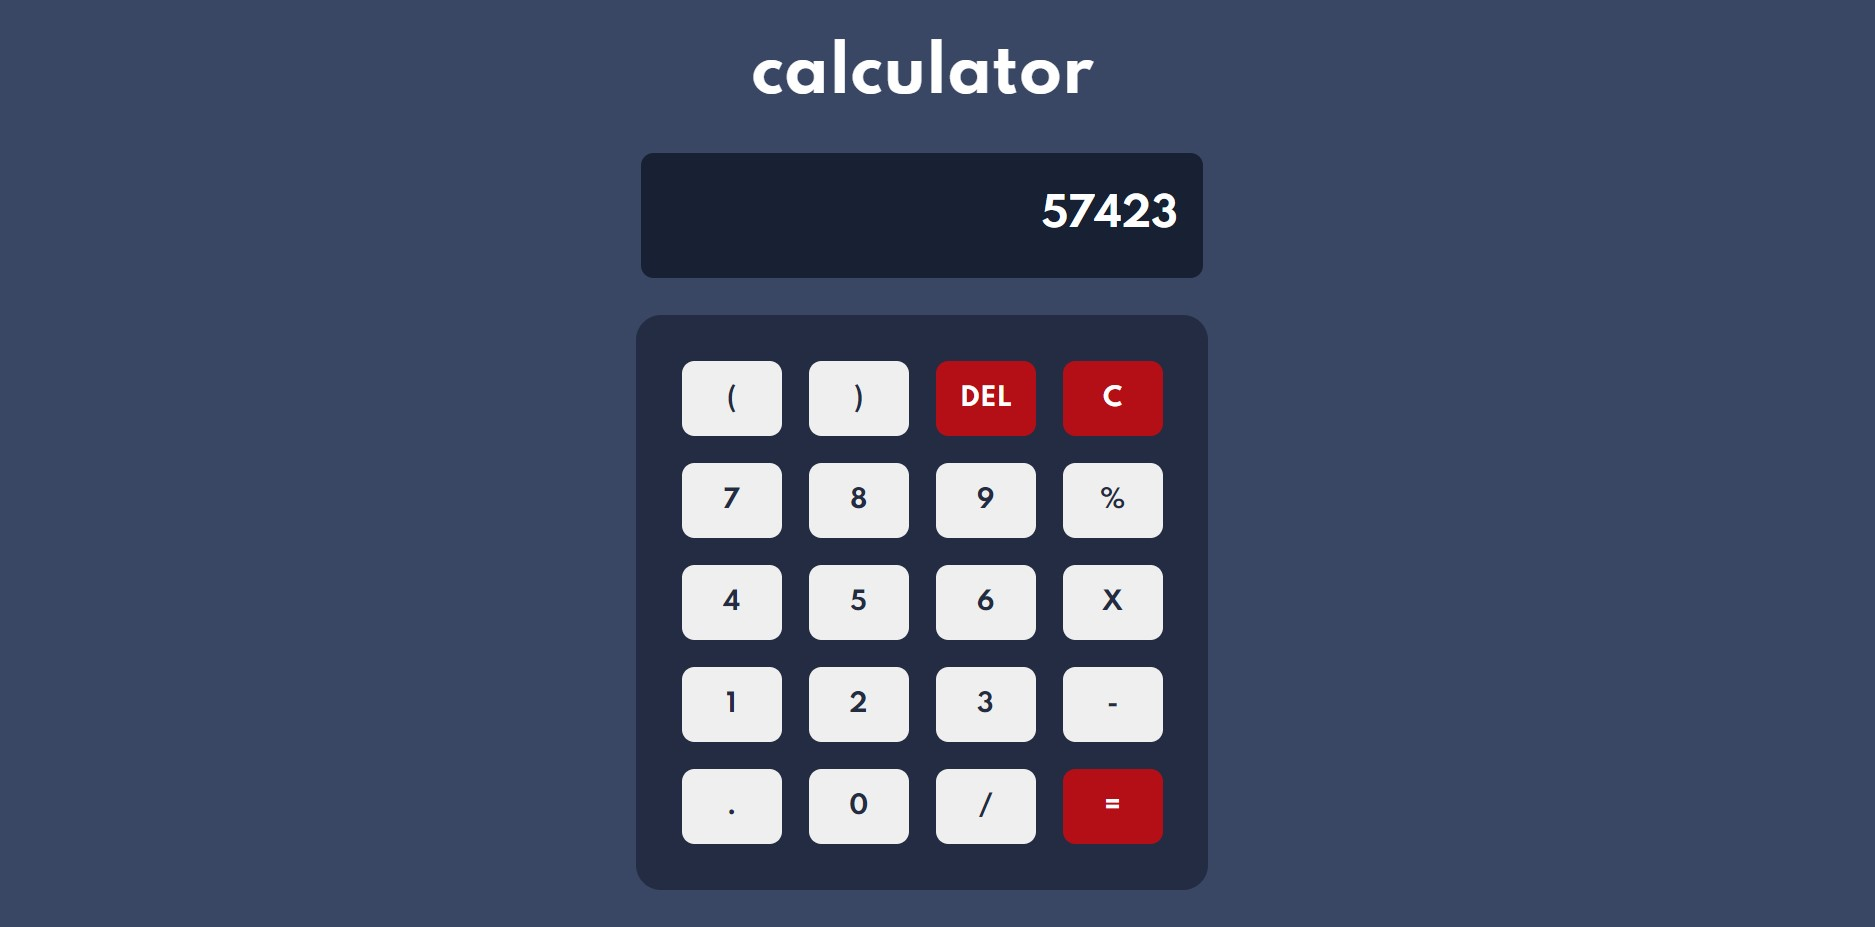
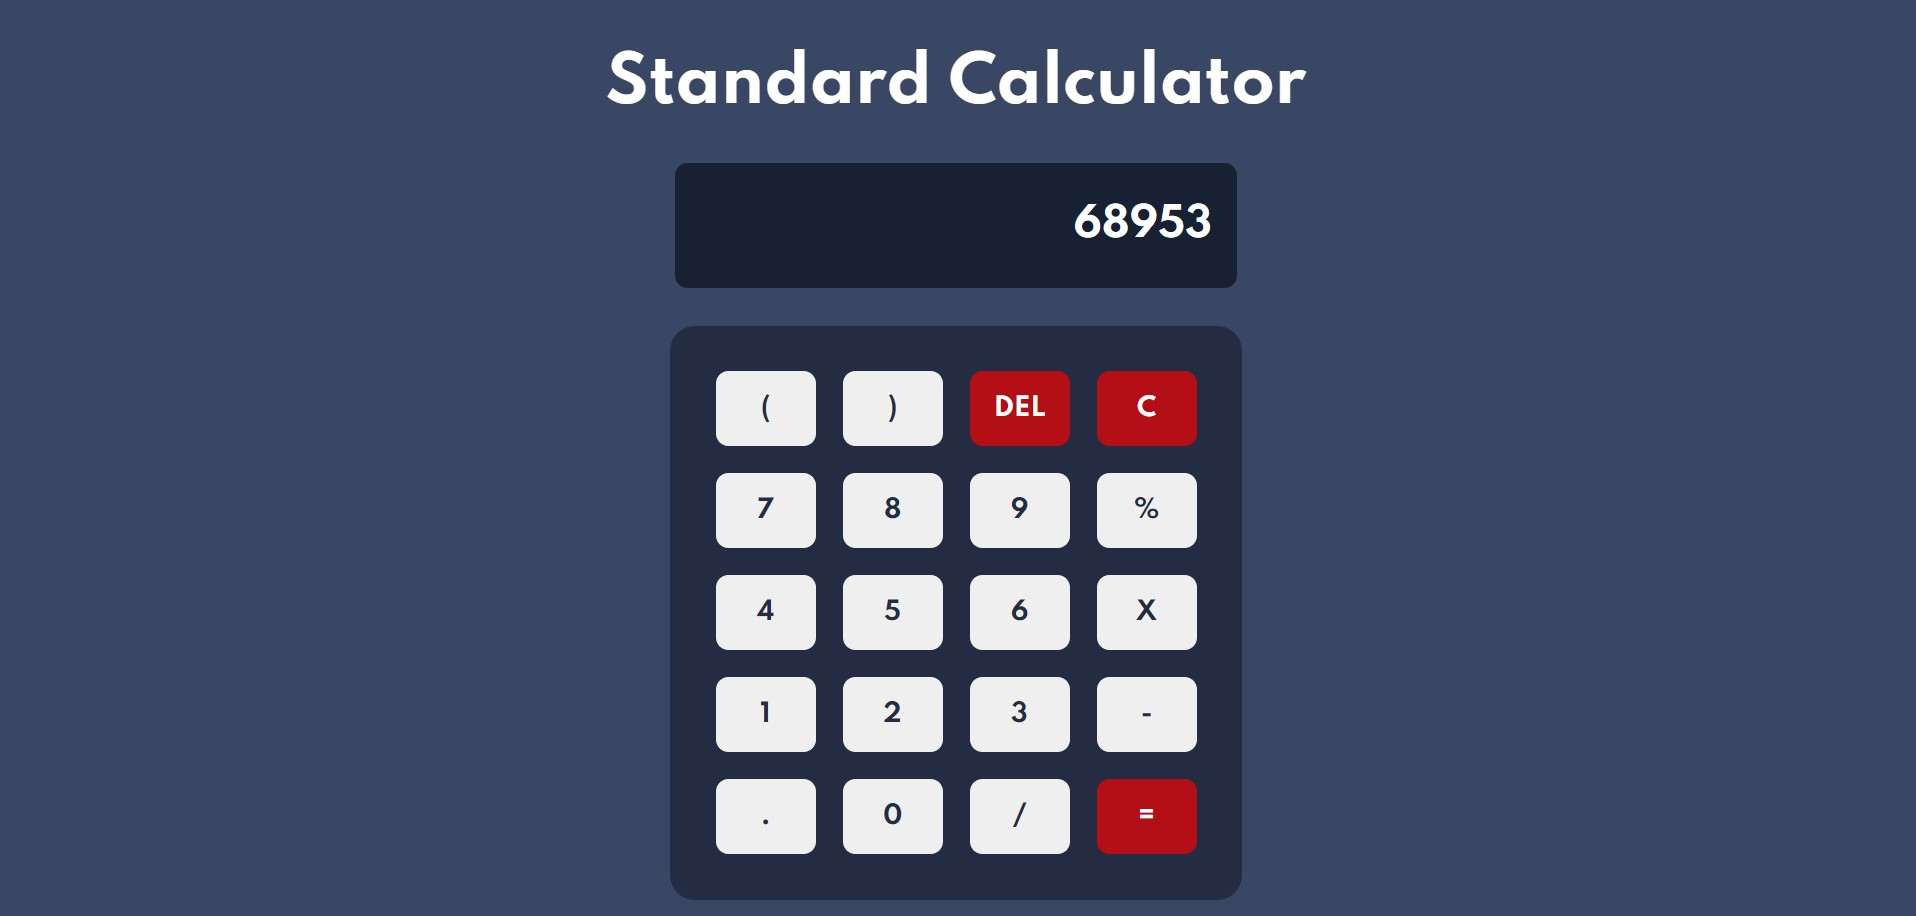
Added + operator

Changed region(s): [[0.3403, 0.1528, 0.6496, 1.0], [0.3093, 0.0306, 0.6805, 0.1223]]

diff --git a/index.html b/index.html
@@ -46,9 +46,9 @@
           <td><button>.</button></td>
           <td><button>0</button></td>
           <td><button>/</button></td>
-          <td><button style="background-color: rgba(255, 0, 0, 0.658); color: white" ;>=</button></td>
-        </tr>
+          <td><button>+</button></td>
       </table>
+      <button id="result" style="background-color: rgba(255, 0, 0, 0.658); color: white" ;>=</button>
     </div>
   </div>
 

diff --git a/style.css b/style.css
@@ -38,8 +38,8 @@ body {
   margin-top: 30px;
 }
 button {
-  width: 80px;
-  height: 60px;
+  width: 70px;
+  height: 50px;
   border-radius: 10px;
   margin: 9px;
   border: none;
@@ -62,8 +62,12 @@ button:active {
   animation: none;
 }
 
+#result {
+  width: 350px;
+  justify-content: center;
+}
 input {
-  width: 450px;
+  width: 419px;
   height: 100px;
   color: white;
   text-align: right;

diff --git a/Readme.md b/Readme.md
@@ -28,7 +28,7 @@ Using HTLM, CSS and Javascript to create a calculator according to the design gi
 
 ### Link
 
-- Solution URL : []
+- Solution URL : [https://github.com/Anish010/Calculator-App]
 - Live Site URL : []
 
 ## My process
